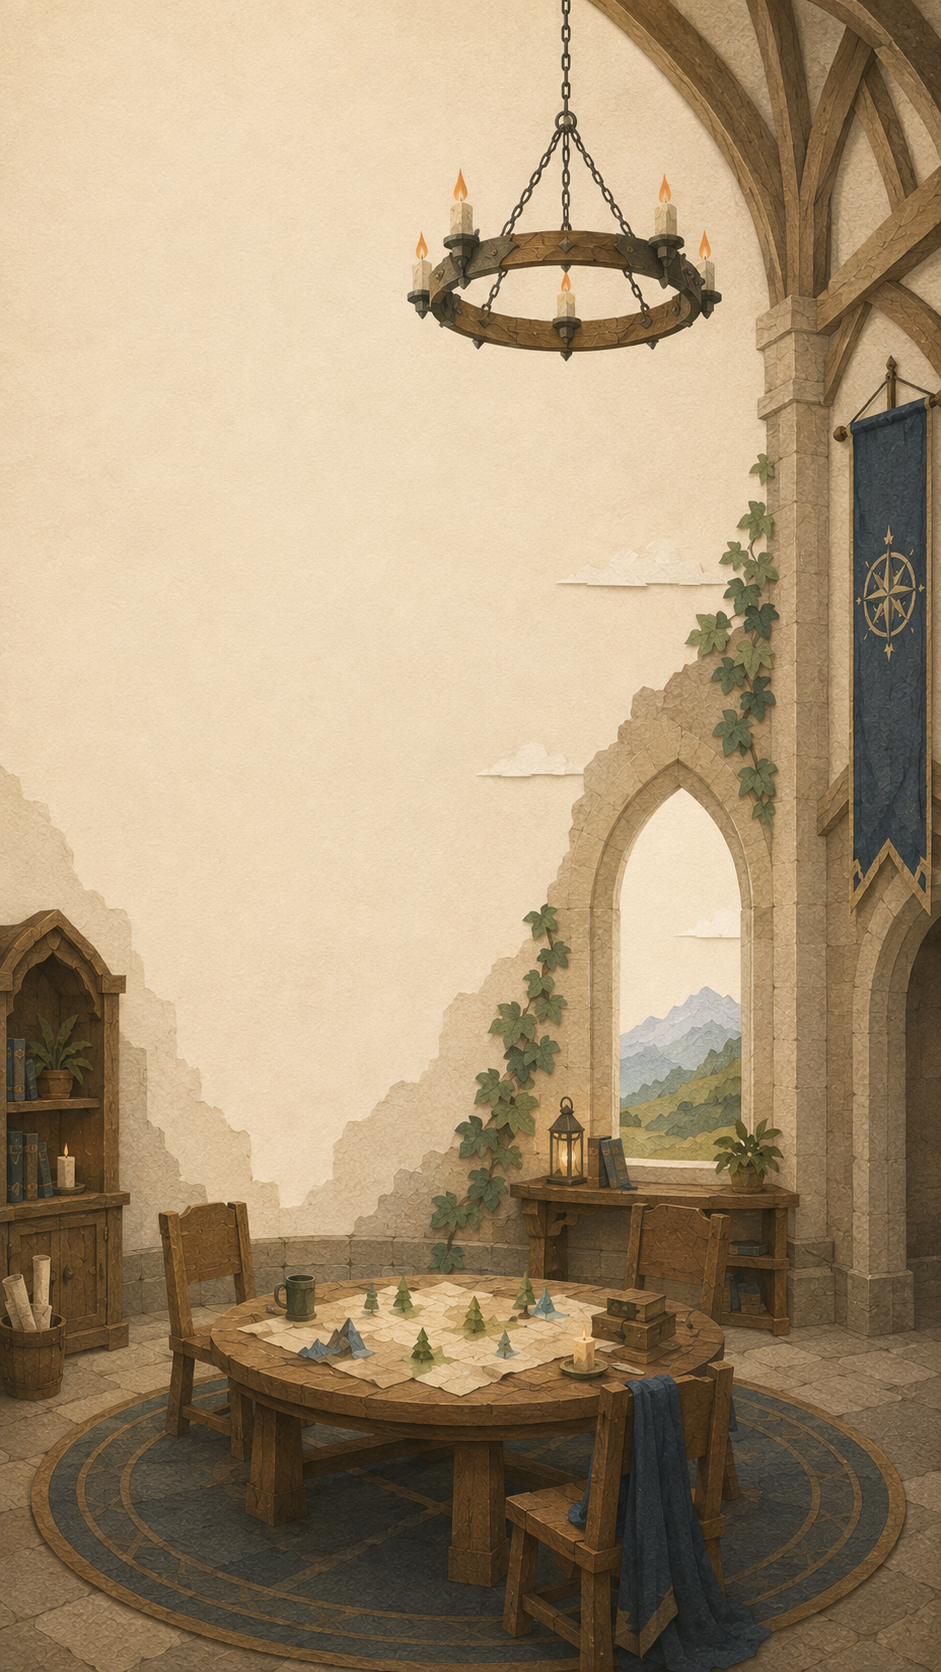
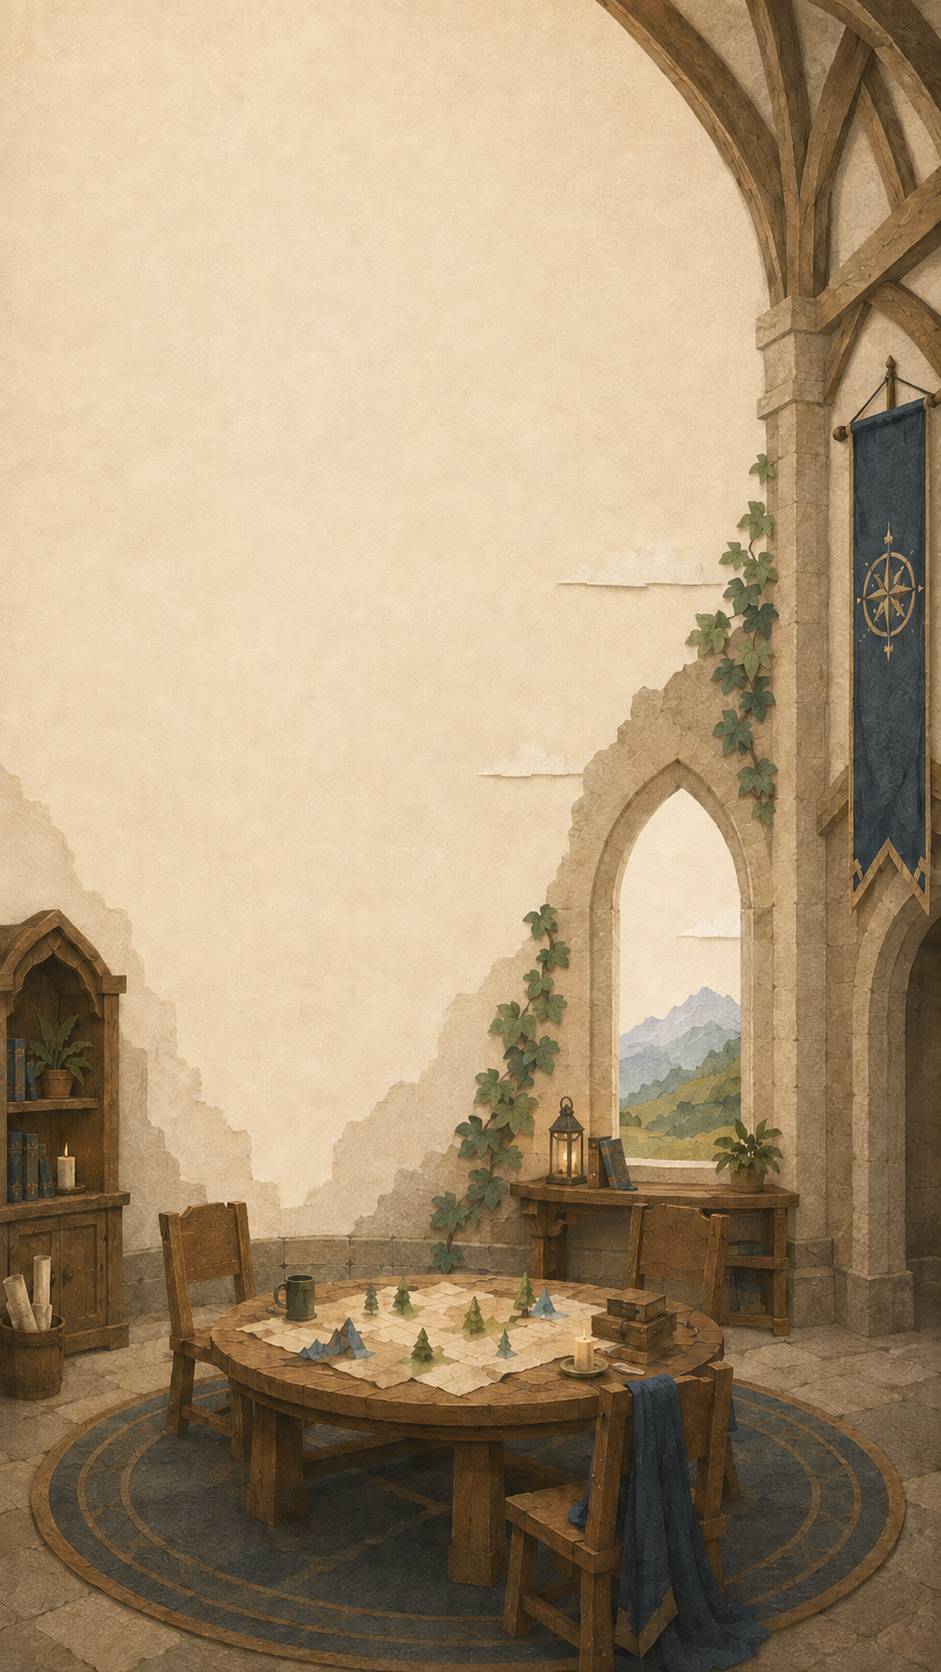
lobby: update to chandelier-free tall image, recenter text in clear parchment

diff --git a/frontend/app/globals.css b/frontend/app/globals.css
@@ -1637,18 +1637,18 @@ a.automation-list-item:focus-visible {
 .lobby-hero {
   position: relative;
   display: flex;
-  min-height: clamp(320px, 42svh, 480px);
+  min-height: clamp(300px, 38svh, 420px);
   grid-row: 1 / span 4;
   flex-direction: column;
   align-items: flex-start;
   justify-content: flex-start;
   gap: 0;
   margin: 0;
-  padding: clamp(28px, 4vw, 36px) clamp(28px, 4vw, 36px) clamp(20px, 3vw, 28px);
+  padding: clamp(22px, 3vw, 32px) clamp(28px, 4vw, 36px) clamp(16px, 2vw, 20px);
   border: 0;
   text-align: left;
   isolation: isolate;
-  background: url('/images/lobby-tall.png') 50% 35% / cover no-repeat;
+  background: url('/images/lobby-tall.png') 62% 0% / cover no-repeat;
 }
 
 .lobby-hero-avatar {
@@ -1666,21 +1666,21 @@ a.automation-list-item:focus-visible {
 }
 
 .lobby-title {
-  max-width: 460px;
-  margin: 0 0 10px;
+  max-width: 340px;
+  margin: 0 0 8px;
   color: var(--ink-strong);
-  font-size: clamp(2.4rem, 4vw, 3.25rem);
-  line-height: 0.94;
+  font-size: clamp(1.95rem, 3vw, 2.7rem);
+  line-height: 0.93;
   letter-spacing: -0.05em;
   text-wrap: balance;
 }
 
 .lobby-desc {
-  max-width: 420px;
+  max-width: 300px;
   margin: 0;
-  color: var(--ink);
-  font-size: 0.88rem;
-  line-height: 1.6;
+  color: var(--ink-muted);
+  font-size: 0.84rem;
+  line-height: 1.5;
 }
 
 .lobby-hero-tags {
